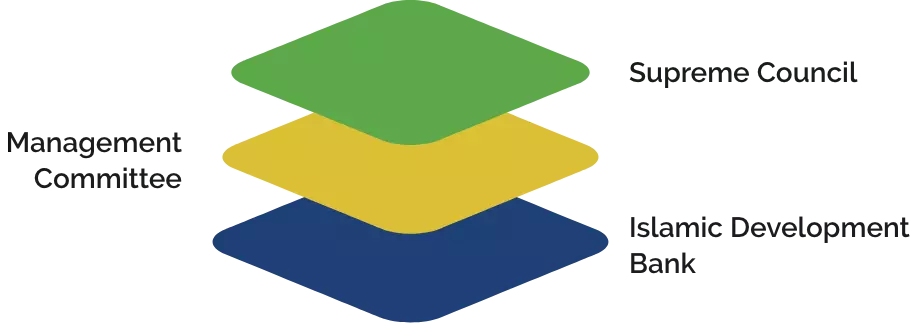
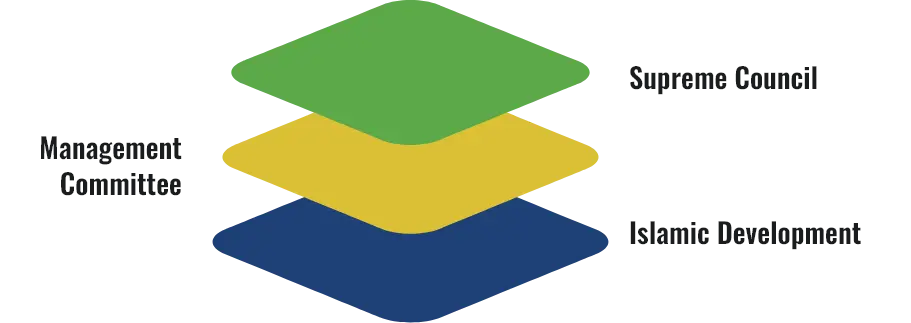
UAT Fixes 3.0

Changed region(s): [[0.6762, 0.6502, 1.0, 0.8669], [0.0, 0.4025, 0.2151, 0.6192], [0.6762, 0.1858, 0.9528, 0.2786]]

diff --git a/app/common-component/page-common-section/PageCommonSection.js b/app/common-component/page-common-section/PageCommonSection.js
@@ -41,25 +41,6 @@ export default function PageCommonSection({ title, handlePrint }) {
               }%2Far`,
         btn: null,
       },
-      {
-        className: "fab fa-twitter",
-        link:
-          router.locale === "en"
-            ? `https://twitter.com/intent/tweet?text=${"Al-Aqsa"}&url=https%3A%2F%2F${
-                process.env.DOMAIN
-              }.YUBfkjipWaQ.twitter&related=`
-            : `https://twitter.com/intent/tweet?text=${"الأقصى"}&url=https%3A%2F%2F${
-                process.env.DOMAIN
-              }%2Far.YUBfkjipWaQ.twitter&related=`,
-        btn: null,
-      },
-      {
-        className: "fab fa-facebook-f",
-        link:
-          router.locale === "en"
-            ? `https://www.facebook.com/login.php?skip_api_login=1&api_key=140586622674265&signed_next=1&next=https%3A%2F%2Fwww.facebook.com%2Fv4.0%2Fdialog%2Fshare%3Fredirect_uri%3Dhttp%253A%252F%252Fs7.addthis.com%252Fstatic%252Fthankyou.html%26display%3Dpopup%26href%3Dhttps%253A%252F%252F${process.env.DOMAIN}%26client_id%3D140586622674265%26ret%3Dlogin&cancel_url=https%3A%2F%2Fs7.addthis.com%2Fstatic%2Fthankyou.html%3Ferror_code%3D4201%26error_message%3DUser%2Bcanceled%2Bthe%2BDialog%2Bflow%23_%3D_&display=popup&locale=en_GB`
-            : `https://www.facebook.com/login.php?skip_api_login=1&api_key=140586622674265&signed_next=1&next=https%3A%2F%2Fwww.facebook.com%2Fv4.0%2Fdialog%2Fshare%3Fredirect_uri%3Dhttp%253A%252F%252Fs7.addthis.com%252Fstatic%252Fthankyou.html%26display%3Dpopup%26href%3Dhttps%253A%252F%252F${process.env.DOMAIN}%2Far%26client_id%3D140586622674265%26ret%3Dlogin&cancel_url=https%3A%2F%2Fs7.addthis.com%2Fstatic%2Fthankyou.html%3Ferror_code%3D4201%26error_message%3DUser%2Bcanceled%2Bthe%2BDialog%2Bflow%23_%3D_&display=popup&locale=en_GB`,
-      },
     ];
     setSocialMediaList(socialMediaList);
   }, [router.locale, handlePrint]);

diff --git a/app/component/success-stories/success-stories-details/SuccessDetails.js b/app/component/success-stories/success-stories-details/SuccessDetails.js
@@ -100,7 +100,7 @@ export default function SuccessStoriesDetails({ successMedia, storiesProps }) {
                   <Row className={`mb-2`}>
                     <Col
                       span={24}
-                      className={`${styles.stories_overview_heading}`}
+                      className={`${styles.stories_amount_heading}`}
                     >
                       Overview
                     </Col>
@@ -364,7 +364,7 @@ export default function SuccessStoriesDetails({ successMedia, storiesProps }) {
                   <Row className={`mb-2`}>
                     <Col
                       span={24}
-                      className={`${styles.stories_overview_heading_ar} text-end`}
+                      className={`${styles.stories_amount_heading_ar} text-end`}
                     >
                       {t("overview")}
                     </Col>

diff --git a/app/component/about/subPages/members/membersList/index.module.sass b/app/component/about/subPages/members/membersList/index.module.sass
@@ -22,6 +22,7 @@
     display: -webkit-box $important
     -webkit-line-clamp: 2
     -webkit-box-orient: vertical
+    letter-spacing: 0
 
 .members_list_label
     font-family: roboto
@@ -34,6 +35,7 @@
     color: $grey_color
     font-size: 12px $important
     font-weight: $five_hundred
+    letter-spacing: 0
 
 .members_list_button
     font-family: "oswald",roboto
@@ -48,6 +50,7 @@
     background-color: rgba(208, 208, 208, 0.3)
     font-size: 16px $important
     font-weight: $five_hundred
+    letter-spacing: 0
 
 @media only screen and (max-width: 1024px)
 

diff --git a/app/component/about/shareholders/index.js b/app/component/about/shareholders/index.js
@@ -22,7 +22,11 @@ export default function ShareHolder({ flagData }) {
     <div className={`${style.bg} pb-5`}>
       <div className={`${style.shareHolder_container} overflow-hidden px-5`}>
         <p
-          className={`${style.shareHolder_title} text-capitalize text-center py-4 m-0`}
+          className={`${
+            router.locale === "en"
+              ? style.shareHolder_title
+              : style.shareHolder_title
+          } text-capitalize text-center py-4 m-0`}
         >
           {t("shareHolders")}
         </p>

diff --git a/app/component/landing/isdb-manage/IsdbManage.js b/app/component/landing/isdb-manage/IsdbManage.js
@@ -18,9 +18,9 @@ export default function IsdbManage({ isdbManage, isdbManageAr }) {
               router.locale === "en"
                 ? style.isdb_manage_title
                 : style.isdb_manage_title_ar
-            } text-center mb-4`}
+            } text-center mb-4 text-capitalize`}
           >
-            {t("isdb also manages")}
+            {t("other funds managed by isdb")}
           </h3>
           <div className="w-100 d-flex justify-content-center flex-wrap align-items-center">
             {router.locale === "en"

diff --git a/app/component/about/aboutCards/index.js b/app/component/about/aboutCards/index.js
@@ -145,7 +145,7 @@ export default function AboutUsCard({ cardData }) {
                               </div>
                             </div>
                             <p
-                              className={`${style.aboutCard_title} text-end w-75 mb-0 me-3`}
+                              className={`${style.aboutCard_title_ar} text-end w-75 mb-0 me-3`}
                             >
                               {data.title}
                             </p>

diff --git a/app/common-component/app-collapsible/index.js b/app/common-component/app-collapsible/index.js
@@ -116,7 +116,7 @@ export default function AppCollapsible({ keys, data }) {
                   ) : (
                     <>
                       <p
-                        className={`${style.collapsible_des} mt-2 pt-1 h6 text-justify`}
+                        className={`${style.collapsible_des_ar} mt-2 pt-1 h6 text-justify`}
                         dir={`rtl`}
                       >
                         {data.title}

diff --git a/app/component/about/subPages/governance/cardSection/index.js b/app/component/about/subPages/governance/cardSection/index.js
@@ -73,7 +73,7 @@ export default function CardSection({ data }) {
                     </div>
                     <div>
                       <h4
-                        className={`mb-4 ${style.card_title} fw-bold ${
+                        className={`mb-4 ${style.card_title} ${
                           router.locale === "en" ? `text-start` : `text-end`
                         } text-capitalize`}
                       >

diff --git a/app/common-component/page-common-section/SocialMedia.js b/app/common-component/page-common-section/SocialMedia.js
@@ -8,7 +8,7 @@ export default function SocialMedia({ className, link, btn }) {
       className={`${style.social_media_container} rounded-circle d-flex justify-content-center align-items-center mx-2 cursor-pointer`}
       onClick={() => (link ? window.open(link) : btn())}
     >
-      <i class={`${className} fa-lg text-white`}></i>
+      <i className={`${className} fa-lg text-white`}></i>
     </div>
   );
 }

diff --git a/app/component/about/shareholders/index.module.sass b/app/component/about/shareholders/index.module.sass
@@ -15,6 +15,11 @@
     font-weight: $nine_hundred
     letter-spacing: 1px
 
+.shareHolder_title
+    font-size: 24px $important
+    font-family: $noto_kufi
+    font-weight: $seven_hundred
+
 .shareHolder_labels,
 .shareHolder_labels_AR
     font-family: roboto
@@ -24,6 +29,7 @@
     height: 65px
 .shareHolder_labels_AR
     height: 40px
+    font-family: $noto_kufi
 
 .flag_image
     height: 90px

diff --git a/app/component/about/subPages/governance/cardSection/index.module.sass b/app/component/about/subPages/governance/cardSection/index.module.sass
@@ -14,10 +14,12 @@
 .card_title
     font-family: "oswald",roboto
     letter-spacing: 0.5px
+    font-weight: $seven_hundred $important
 
 .card_title_ar
     font-family: $noto_kufi
     font-size: 20px $important
+    font-weight: $nine_hundred $important
 
 .card_des
     // font-family: roboto

diff --git a/app/component/success-stories/success-stories-details/index.module.sass b/app/component/success-stories/success-stories-details/index.module.sass
@@ -32,7 +32,7 @@
     font-weight: $five_hundred
     font-family: $noto_kufi $important
     color: $grey_color
-    @extend %font_size_18
+    font-size: 16px $important
     letter-spacing: -0.5px
 
 .stories_amount_heading,
